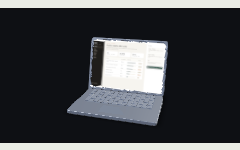
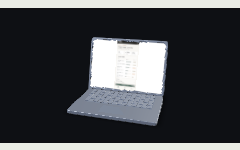
T-P9b: koristi odobrenu uspravnu demo tabelu
Vlasnik je odobrio konkretnu sliku i javnu objavu PR-a sa istraživanjem, tiketom i testom. Bez merge-a.
Linux npm run ci: 81 guards, typecheck i 177 unit testova PASS. Build PASS. Isto stablo kao testirani lokalni dc116c2.

diff --git a/guards/pg-mode.test.ts b/guards/pg-mode.test.ts
@@ -139,7 +139,7 @@ it('T-P3: the first ready transition contains the committed demo, after image/SD
       meta: ReturnType<typeof window.__plinth.getImage>; png: string; imageShaderBeforeReady: boolean;
       centre: { x: number; y: number }; size: number[];
     } }).__firstImageFrame);
-    expect(first.meta).toMatchObject({ identity: 'demo', originalWidth: 2880, originalHeight: 1800, fit: 'contain', pad: 0, padColor: '#ffffff' });
+    expect(first.meta).toMatchObject({ identity: 'demo', originalWidth: 845, originalHeight: 1862, fit: 'contain', pad: 0, padColor: '#ffffff' });
     expect(first.size).toEqual([1280, 800]);
     expect(first.imageShaderBeforeReady).toBe(true);
     const png = PNG.sync.read(Buffer.from(first.png.split(',')[1]!, 'base64'));
